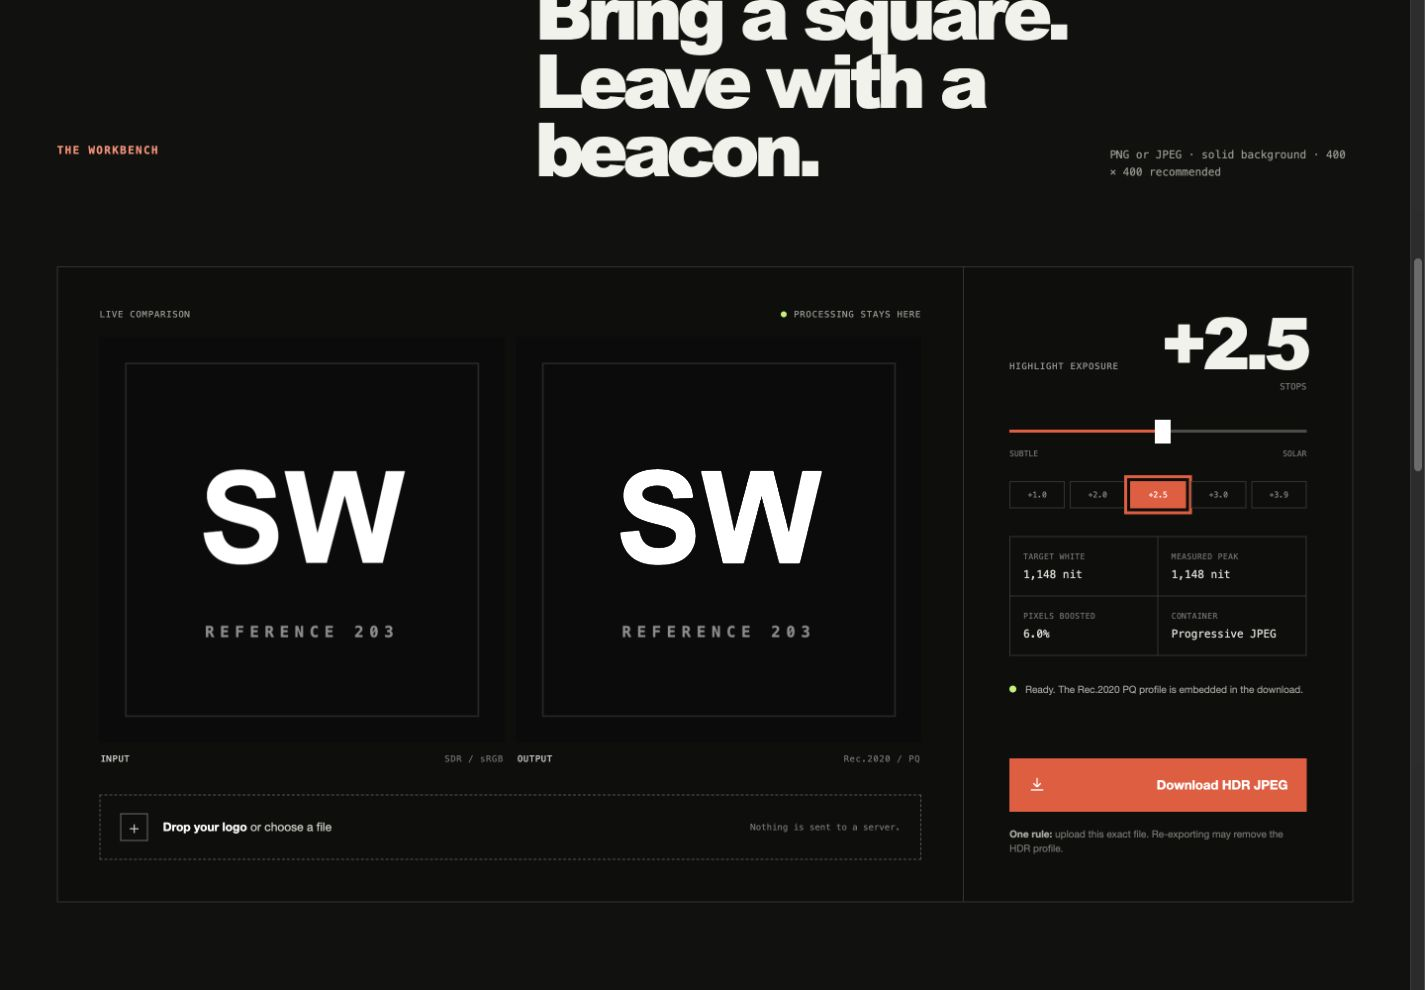
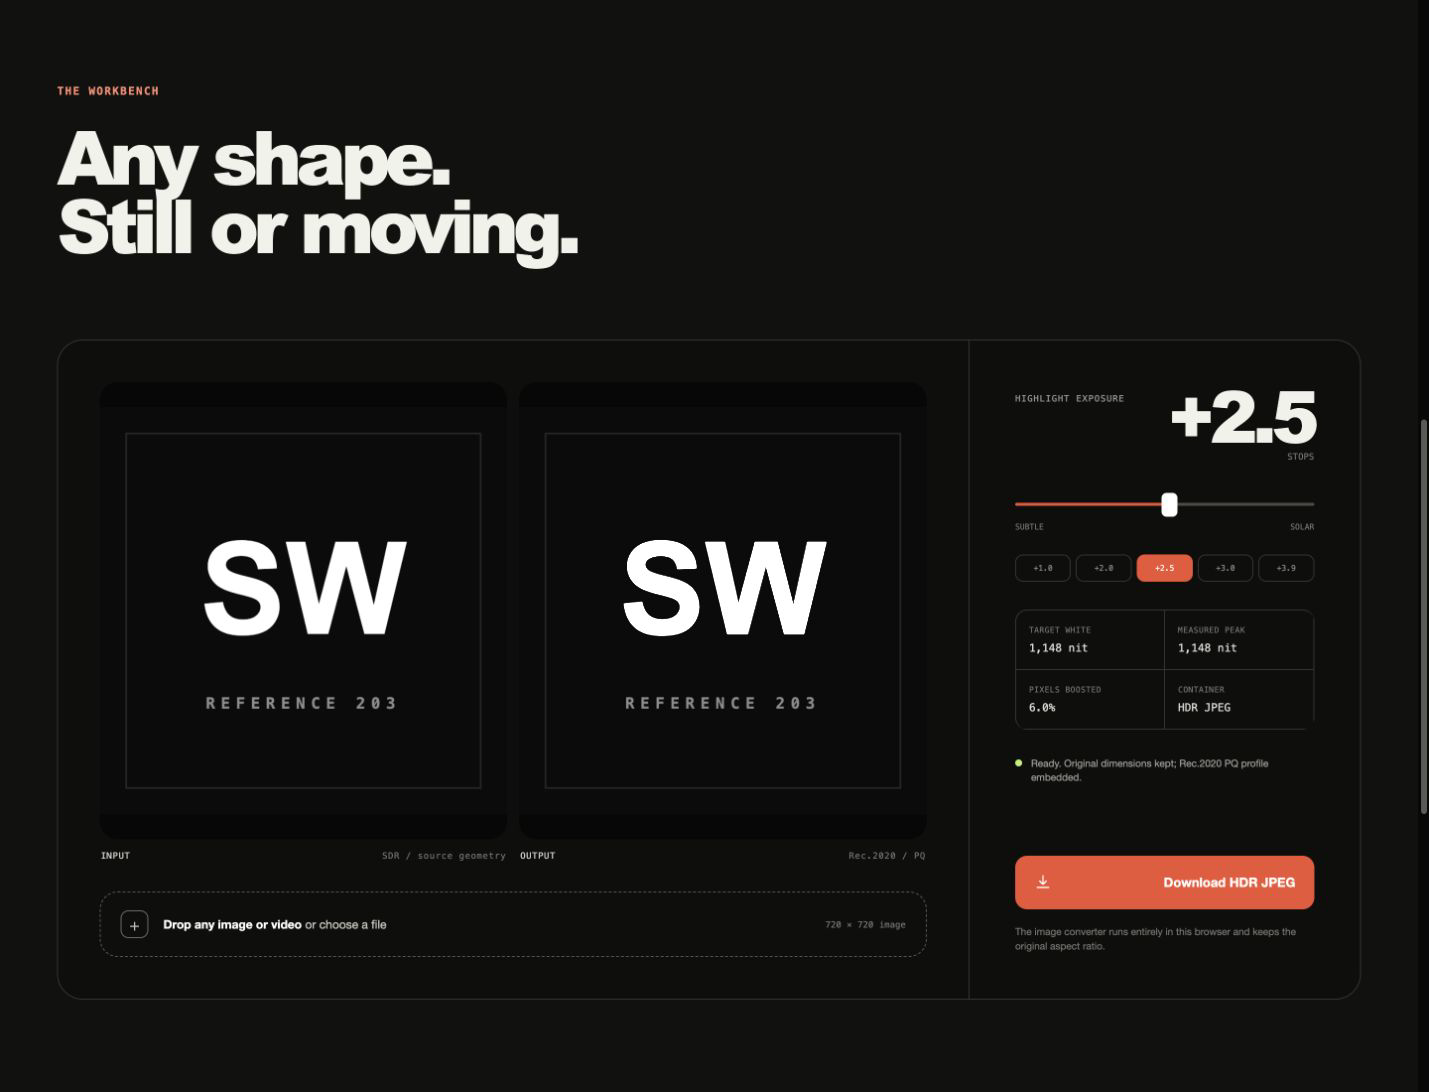
Refresh README with clearer product overview and usage guidance

diff --git a/README.md b/README.md
@@ -1,43 +1,55 @@
 <p align="center">
-  <img src="public/favicon.svg" width="72" height="72" alt="SuperWhite mark">
-</p>
-
-<h1 align="center">SuperWhite</h1>
-
-<p align="center">
-  <strong>Any shape. Still or moving.</strong><br>
-  Convert SDR images and videos into dimension-preserving Rec.2020/PQ HDR media.
+  <img src="docs/superwhite-wordmark.svg" width="760" alt="SuperWhite">
 </p>
 
 <p align="center">
-  <a href="https://arkane-o7.github.io/SuperWhite/">Open the website</a>
+  <strong>Turn SDR images and videos into real Rec.2020/PQ HDR media.</strong><br>
+  Keep the original size, shape, frame rate, duration, and timing.
 </p>
 
-![SuperWhite media converter](docs/superwhite-preview.png)
+<p align="center">
+  <a href="https://arkane-o7.github.io/SuperWhite/"><strong>Open SuperWhite</strong></a>
+  &nbsp;·&nbsp;
+  <a href="#command-line">Command line</a>
+  &nbsp;·&nbsp;
+  <a href="#open-source">Open source</a>
+</p>
 
-SuperWhite adds real HDR highlight brightness to media without changing its
-shape. A 1920 × 1080 video remains 1920 × 1080. Portrait footage remains
-portrait. Frame rate, duration, and audio timing are preserved.
+![SuperWhite hero](docs/superwhite-hero.png)
 
-The brightest pixels can then render above SDR reference white on a compatible
-HDR display. On SDR displays, compatible software tone-maps the result.
+SuperWhite selectively lifts bright SDR pixels into HDR headroom. It does not
+fake the effect by resizing, cropping, padding, or stretching the source.
 
-## What it accepts
+| Use it in | Best for | Processing |
+|---|---|---|
+| **Public website** | Images | Entirely inside the browser |
+| **Local website** | Images and videos | Browser + FFmpeg on your machine |
+| **Command line** | Repeatable image and video conversion | Python + FFmpeg on your machine |
 
-- Images in any format the browser or Pillow can decode
-- Videos in any format FFmpeg can decode, including MP4, MOV, MKV, WebM, AVI,
-  MTS, and M2TS
-- Landscape, portrait, ultrawide, square, or any other source aspect ratio
+## What ships today
 
-There is no square requirement, no crop step, and no padding step.
+- A browser image converter with a live SDR/HDR comparison and exposure control
+- Dimension-preserving HDR JPEG output with a bundled Rec.2020/PQ ICC profile
+- A local video workbench backed by native FFmpeg
+- HDR10 MP4 output using 10-bit HEVC, Rec.2020 primaries, PQ, and HDR10 metadata
+- Image and video CLI tools for repeatable conversions
+- Automatic macOS, Windows, and Linux setup instructions on the website
+
+![SuperWhite workbench](docs/superwhite-preview.png)
 
 ## Use the website
 
-Image conversion works directly on the public static website and never sends
-the image to a server.
+Open **[arkane-o7.github.io/SuperWhite](https://arkane-o7.github.io/SuperWhite/)**
+and drop in an image. Choose an exposure from +1.0 to +3.9 stops, inspect the
+result, and download the HDR JPEG.
 
-Video conversion uses native FFmpeg. Run the same interface locally to enable
-video uploads:
+Image conversion on the public website happens in the browser. The file is not
+uploaded to a remote conversion service.
+
+### Enable video in the same interface
+
+The public GitHub Pages build cannot run native FFmpeg. Clone the project and
+start the local runner to enable video conversion:
 
 ```bash
 git clone https://github.com/Arkane-o7/SuperWhite.git
@@ -48,34 +60,76 @@ brew install ffmpeg
 npm run local
 ```
 
-Then open [http://127.0.0.1:4173](http://127.0.0.1:4173), drop in a video, set
-the exposure, and download the HDR10 MP4. The upload travels only from your
-browser to the FFmpeg process on the same machine.
+Open [http://127.0.0.1:4173](http://127.0.0.1:4173). Uploaded videos travel
+only from the browser to the FFmpeg process running on the same machine.
 
-The public GitHub Pages build cannot execute native FFmpeg, so it shows the
-local-runner instruction when a video is selected instead of pretending it can
-produce a standards-correct HDR video in-browser.
+> The example above is for macOS. Use the platform-specific FFmpeg command in
+> the next section on Windows or Linux. On Windows, replace `npm run local`
+> with `npm run build` followed by `py scripts\superwhite_server.py`.
 
 ## Command line
 
-### Image
+SuperWhite is currently installed from source. It is not published as a
+`pip install superwhite` package or a Homebrew formula.
+
+<details open>
+<summary><strong>macOS</strong></summary>
+
+```bash
+git clone https://github.com/Arkane-o7/SuperWhite.git
+cd SuperWhite
+python3 -m pip install -r requirements.txt
+brew install ffmpeg
+```
+
+</details>
+
+<details>
+<summary><strong>Windows · PowerShell</strong></summary>
+
+```powershell
+git clone https://github.com/Arkane-o7/SuperWhite.git
+Set-Location SuperWhite
+py -m pip install -r requirements.txt
+winget install --id Gyan.FFmpeg --exact
+```
+
+</details>
+
+<details>
+<summary><strong>Linux · Debian / Ubuntu</strong></summary>
+
+```bash
+sudo apt update
+sudo apt install ffmpeg
+git clone https://github.com/Arkane-o7/SuperWhite.git
+cd SuperWhite
+python3 -m pip install -r requirements.txt
+```
+
+Use your distribution's package manager instead of `apt` on other Linux
+distributions.
+
+</details>
+
+### Convert an image
 
 ```bash
 python3 scripts/make_hdr_image.py input.png output-hdr.jpg --stops 2.5
 python3 scripts/inspect_hdr_image.py output-hdr.jpg
 ```
 
-The image converter preserves the exact aspect ratio and dimensions, flattens
-transparency, converts linear light into Rec.2020,
-PQ-encodes the result, and embeds the bundled Rec.2020/PQ ICC profile.
+The image converter accepts formats Pillow can decode, preserves the source
+dimensions and aspect ratio, flattens transparency onto near-black, converts
+the image to Rec.2020, PQ-encodes it, and embeds the bundled delivery profile.
 
-### Video
+### Convert a video
 
 ```bash
 python3 scripts/make_hdr_video.py input.mp4 output-hdr.mp4 --stops 2.5
 ```
 
-Useful controls:
+Optional x265 controls:
 
 ```bash
 python3 scripts/make_hdr_video.py input.mov output-hdr.mp4 \
@@ -84,45 +138,39 @@ python3 scripts/make_hdr_video.py input.mov output-hdr.mp4 \
   --preset medium
 ```
 
-The output is:
+The video output keeps the source resolution, display aspect ratio, frame
+rate, duration, and audio timing. It uses 10-bit HEVC Main 10 in an MP4
+container with the `hvc1` compatibility tag and AAC audio.
 
-- The same width, height, display aspect ratio, frame rate, and duration
-- 10-bit HEVC Main 10 in an MP4 container with the `hvc1` compatibility tag
-- Rec.2020 primaries with SMPTE ST 2084 (PQ)
-- HDR10 mastering-display and MaxCLL/MaxFALL metadata
-- Original audio timing, encoded as AAC for broad MP4 compatibility
-
-Already-HDR PQ or HLG input is rejected to avoid double conversion.
+Already-HDR PQ and HLG video inputs are rejected to prevent double conversion.
+On Windows, replace `python3` with `py` in the commands above.
 
 ## Exposure
 
-`--stops` controls the maximum highlight lift. It does not resize the media.
+`--stops` controls the maximum highlight lift. It never changes the media's
+geometry.
 
 | Stops | Approximate target | Character |
 |---:|---:|---|
-| +1.0 | 406 nit | restrained |
-| +2.0 | 812 nit | visible |
-| +2.5 | 1,148 nit | strong |
-| +3.0 | 1,624 nit | intense |
-| +3.9 | 3,027 nit | extreme |
+| +1.0 | 406 nit | Restrained |
+| +2.0 | 812 nit | Visible |
+| +2.5 | 1,148 nit | Strong |
+| +3.0 | 1,624 nit | Intense |
+| +3.9 | 3,027 nit | Extreme |
 
-The lift uses a smooth luminance threshold, so dark and midtone areas remain
-close to their source behavior while highlights receive the HDR headroom.
+The lift uses a smooth luminance threshold, leaving dark and midtone areas
+close to the source while giving highlights access to HDR headroom.
 
-## How it works
+## Compatibility
 
-```text
-SDR image                         SDR video + audio
-    │                                     │
-    ├─ preserve source geometry           ├─ preserve geometry and timing
-    ├─ linearize sRGB                     ├─ normalize SDR color to BT.709
-    ├─ convert to Rec.2020                 ├─ apply the SuperWhite 3D LUT
-    ├─ selectively lift highlights        ├─ encode 10-bit Rec.2020/PQ HEVC
-    ├─ PQ encode                          ├─ write HDR10 metadata
-    └─ embed PQ ICC profile               └─ retain audio timing in MP4
-```
+The visible result depends on the complete playback chain: the HDR file,
+metadata surviving its destination, an HDR-aware player and operating system,
+and an HDR-capable display. Some social platforms and image processors strip
+or rewrite HDR metadata.
 
 ## Development
+
+Requires Node.js 22.12+ and Python 3.
 
 ```bash
 npm install
@@ -132,31 +180,28 @@ python3 -m unittest discover -s tests
 npm run build
 ```
 
-`npm run dev` starts the image-only Vite development server. `npm run local`
-builds the site and starts the local FFmpeg-enabled server.
+- `npm run dev` starts the image-only Vite development server.
+- `npm run local` builds the site and starts the FFmpeg-enabled local runner.
 
-## Project layout
+<details>
+<summary><strong>Project layout</strong></summary>
 
 ```text
 src/                          React interface and browser image converter
 scripts/make_hdr_image.py     dimension-preserving HDR still converter
 scripts/make_hdr_video.py     dimension-preserving HDR10 video converter
-scripts/superwhite_server.py  local upload UI + FFmpeg bridge
+scripts/superwhite_server.py  local upload UI and FFmpeg bridge
 public/rec2020pq.icc          bundled Rec.2020/PQ delivery profile
 tests/                        image and video conversion checks
 ```
 
-## Compatibility
+</details>
 
-The visible effect needs the entire chain: HDR file, metadata that survives the
-destination, HDR-aware player/browser/OS, and an HDR-capable display. Platform
-image and video processing can strip or rewrite HDR metadata, and behavior can
-change without notice.
+## Open source
+
+SuperWhite is released under the [MIT License](LICENSE). Inspect it, fork it,
+adapt it, or contribute improvements.
 
 The still-image method and profile are adapted from
 [Adamodigi/linkedin-hdr-logo](https://github.com/Adamodigi/linkedin-hdr-logo)
 under the MIT License. See [THIRD_PARTY_NOTICES.md](THIRD_PARTY_NOTICES.md).
-
-## License
-
-[MIT](LICENSE)
